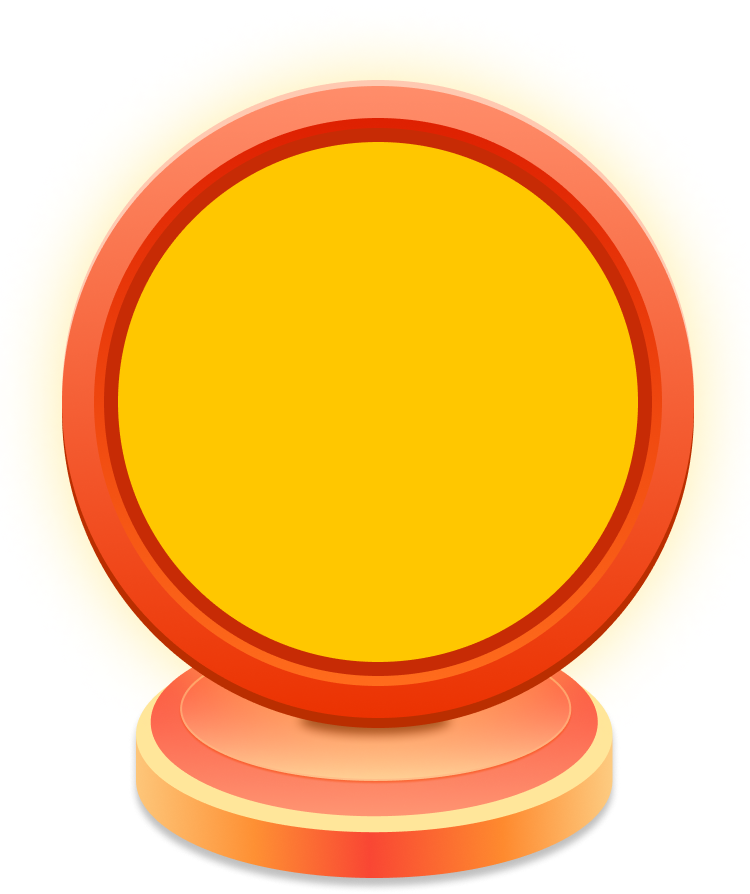
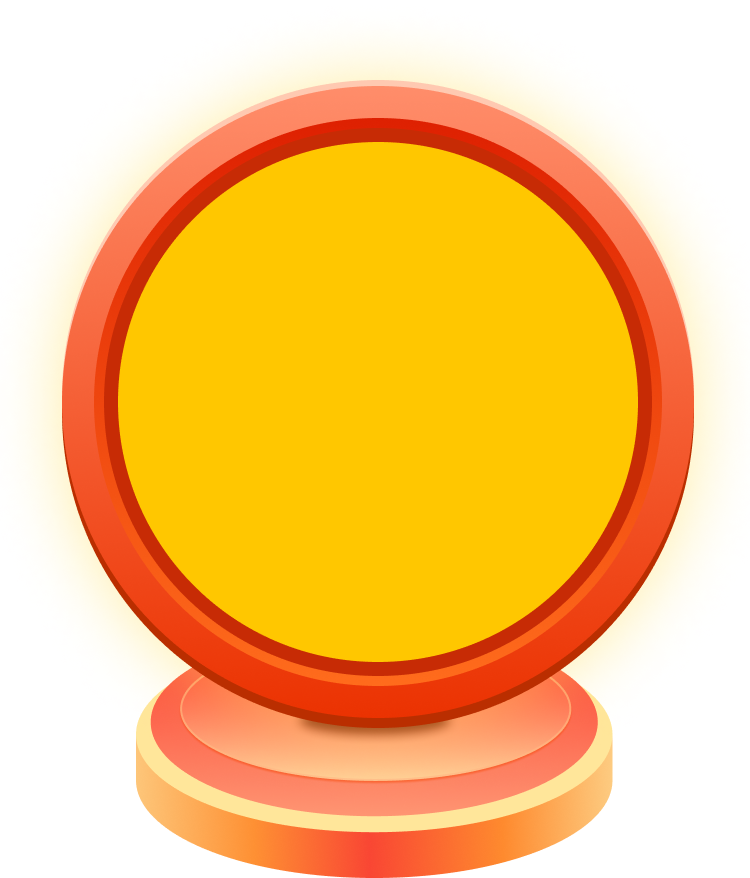
样式调整

diff --git a/src/views/gift/lottery.vue b/src/views/gift/lottery.vue
@@ -72,11 +72,11 @@ const LotteryResults = ref()
 
 const blocks = ref([
     {
-        padding: '58px',
+        padding: '57px',
         imgs: [
             {
                 src: cj_bg,   //图片url
-                top: '-10px',     //图片距顶部距离
+                top: '-15px',     //图片距顶部距离
                 width: '380px',  //图片宽
                 height: '450px', //图片高
             }
